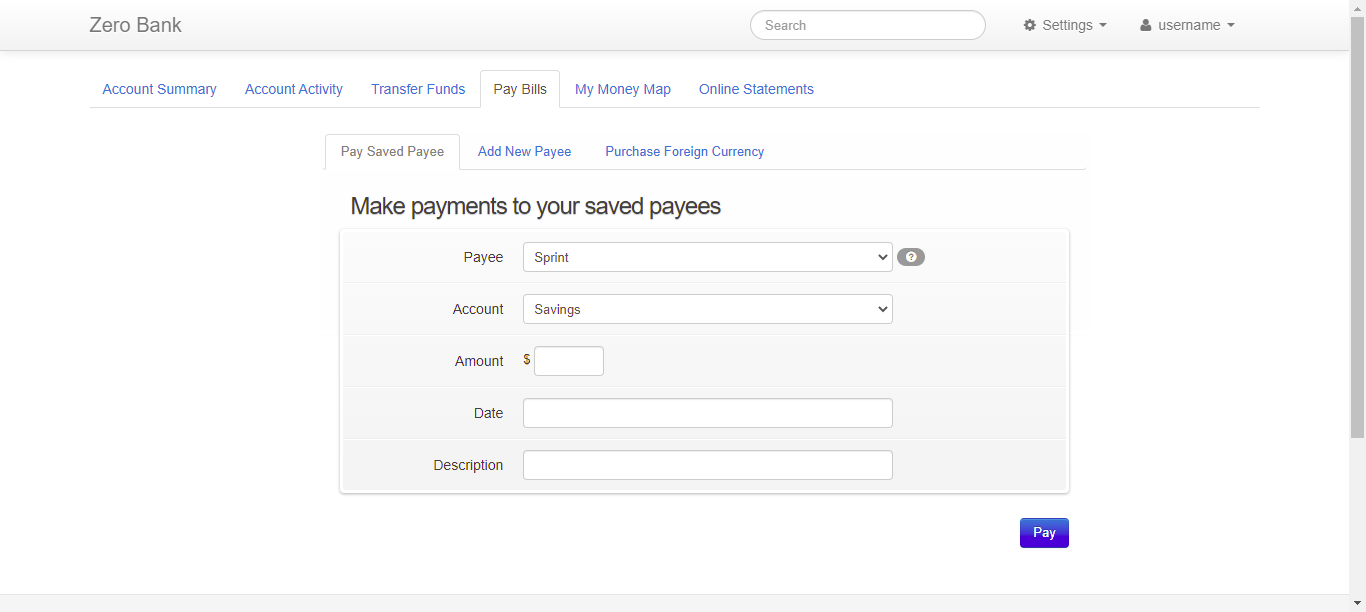
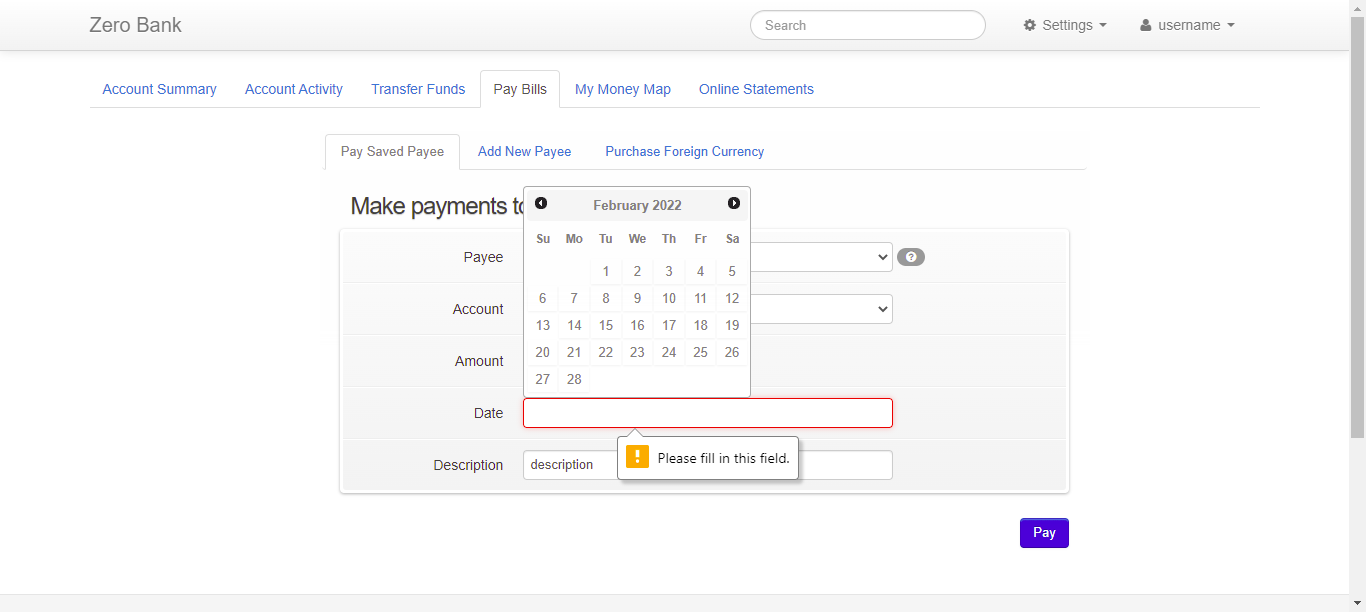
sth

diff --git a/target/default-html-reports/report.js b/target/default-html-reports/report.js
@@ -43,7 +43,7 @@ formatter.result({
   "status": "passed"
 });
 formatter.scenario({
-  "name": "Complete the form succesfully, and verify the message",
+  "name": "Warning message should display when user tries to complete the payment without entering amount",
   "description": "",
   "keyword": "Scenario",
   "tags": [
@@ -53,21 +53,92 @@ formatter.scenario({
   ]
 });
 formatter.step({
-  "name": "user completes the form succesfully",
+  "name": "user tries to complete payment without inserting amount",
   "keyword": "Given "
 });
 formatter.match({
-  "location": "com.zerobank.stepdefinitions.PayBillsDefinitions.user_completes_the_form_succesfully()"
+  "location": "com.zerobank.stepdefinitions.PayBillsDefinitions.user_tries_to_complete_payment_without_inserting_amount()"
 });
 formatter.result({
   "status": "passed"
 });
 formatter.step({
-  "name": "verify that \"The payment was successfully submitted.\" message is displayed",
+  "name": "warning message \"Please fill in this field.\" message is popped up for \"amount\"",
+  "keyword": "And "
+});
+formatter.match({
+  "location": "com.zerobank.stepdefinitions.PayBillsDefinitions.warning_message_message_is_popped_up_for(java.lang.String,java.lang.String)"
+});
+formatter.result({
+  "status": "passed"
+});
+formatter.after({
+  "status": "passed"
+});
+formatter.background({
+  "name": "",
+  "description": "",
+  "keyword": "Background"
+});
+formatter.before({
+  "status": "passed"
+});
+formatter.step({
+  "name": "user is on the login page",
+  "keyword": "Given "
+});
+formatter.match({
+  "location": "com.zerobank.stepdefinitions.LoginDefinitions.user_is_on_the_login_page()"
+});
+formatter.result({
+  "status": "passed"
+});
+formatter.step({
+  "name": "user enters valid credentials",
+  "keyword": "And "
+});
+formatter.match({
+  "location": "com.zerobank.stepdefinitions.LoginDefinitions.user_enters_valid_credentials()"
+});
+formatter.result({
+  "status": "passed"
+});
+formatter.step({
+  "name": "navigate to \"pay_bills\" page",
   "keyword": "Then "
 });
 formatter.match({
-  "location": "com.zerobank.stepdefinitions.PayBillsDefinitions.verify_that_message_is_displayed(java.lang.String)"
+  "location": "com.zerobank.stepdefinitions.AccountSummaryPageDefinitions.navigate_to_page(java.lang.String)"
+});
+formatter.result({
+  "status": "passed"
+});
+formatter.scenario({
+  "name": "Warning message should display when user tries to complete the payment without entering  date",
+  "description": "",
+  "keyword": "Scenario",
+  "tags": [
+    {
+      "name": "@wip"
+    }
+  ]
+});
+formatter.step({
+  "name": "user tries to complete payment without inserting date",
+  "keyword": "And "
+});
+formatter.match({
+  "location": "com.zerobank.stepdefinitions.PayBillsDefinitions.user_tries_to_complete_payment_without_inserting_date()"
+});
+formatter.result({
+  "status": "passed"
+});
+formatter.step({
+  "name": "warning message \"Please fill in this field.\" message is popped up for \"date\"",
+  "keyword": "Then "
+});
+formatter.match({
+  "location": "com.zerobank.stepdefinitions.PayBillsDefinitions.warning_message_message_is_popped_up_for(java.lang.String,java.lang.String)"
 });
 formatter.result({
   "status": "passed"

diff --git a/src/test/java/com/zerobank/stepdefinitions/PayBillsDefinitions.java b/src/test/java/com/zerobank/stepdefinitions/PayBillsDefinitions.java
@@ -1,9 +1,16 @@
 package com.zerobank.stepdefinitions;
 
 import com.zerobank.pages.PayBillsPage;
+import com.zerobank.utilities.BrowserUtils;
+import com.zerobank.utilities.Driver;
 import io.cucumber.java.en.Given;
 import io.cucumber.java.en.Then;
 import org.junit.Assert;
+import org.openqa.selenium.Alert;
+import org.openqa.selenium.By;
+import org.openqa.selenium.JavascriptExecutor;
+import org.openqa.selenium.support.ui.ExpectedConditions;
+import org.openqa.selenium.support.ui.WebDriverWait;
 
 public class PayBillsDefinitions {
 
@@ -11,7 +18,7 @@ public class PayBillsDefinitions {
 
     @Given("user completes the form succesfully")
     public void user_completes_the_form_succesfully() {
-        payBillsPage.succesForm();
+        payBillsPage.succesForm("5","13022022");
 
     }
 
@@ -25,20 +32,29 @@ public class PayBillsDefinitions {
 
     @Given("user tries to complete payment without inserting amount")
     public void user_tries_to_complete_payment_without_inserting_amount() {
-        // Write code here that turns the phrase above into concrete actions
-        throw new io.cucumber.java.PendingException();
+        payBillsPage.succesForm("","13022022");
     }
 
-    @Given("warning message {string} message is popped up")
-    public void warning_message_message_is_popped_up(String string) {
-        // Write code here that turns the phrase above into concrete actions
-        throw new io.cucumber.java.PendingException();
+
+    @Then("warning message {string} message is popped up for {string}")
+    public void warning_message_message_is_popped_up_for(String message, String type) {
+        String actualText = Driver.get().findElement(By.name(type)).getAttribute("validationMessage");
+
+        System.out.println("actualText = " + actualText);
+
+        BrowserUtils.waitFor(3);
+
+        Assert.assertTrue("Verify the pop up alert message",actualText.equals(message));
+
     }
+
+
 
     @Given("user tries to complete payment without inserting date")
     public void user_tries_to_complete_payment_without_inserting_date() {
-        // Write code here that turns the phrase above into concrete actions
-        throw new io.cucumber.java.PendingException();
+        payBillsPage.dateInputBox.clear();
+        payBillsPage.succesForm("5","");
+
     }
 
 

diff --git a/src/test/java/com/zerobank/pages/PayBillsPage.java b/src/test/java/com/zerobank/pages/PayBillsPage.java
@@ -32,16 +32,16 @@ public class PayBillsPage extends BasePage{
 
 
 
-    public void succesForm(){
+    public void succesForm(String amount, String date){
 
         BrowserUtils.waitFor(2);
         new Select(payeeDropDown).selectByValue("sprint");
         BrowserUtils.waitFor(2);
         new Select(accountDropDown).selectByValue("1");
         BrowserUtils.waitFor(2);
-        amountInputBox.sendKeys("5");
+        amountInputBox.sendKeys(amount);
         BrowserUtils.waitFor(2);
-        dateInputBox.sendKeys("13022022");
+        dateInputBox.sendKeys(date);
         BrowserUtils.waitFor(2);
         descriptionInputBox.sendKeys("description");
         BrowserUtils.waitFor(2);
